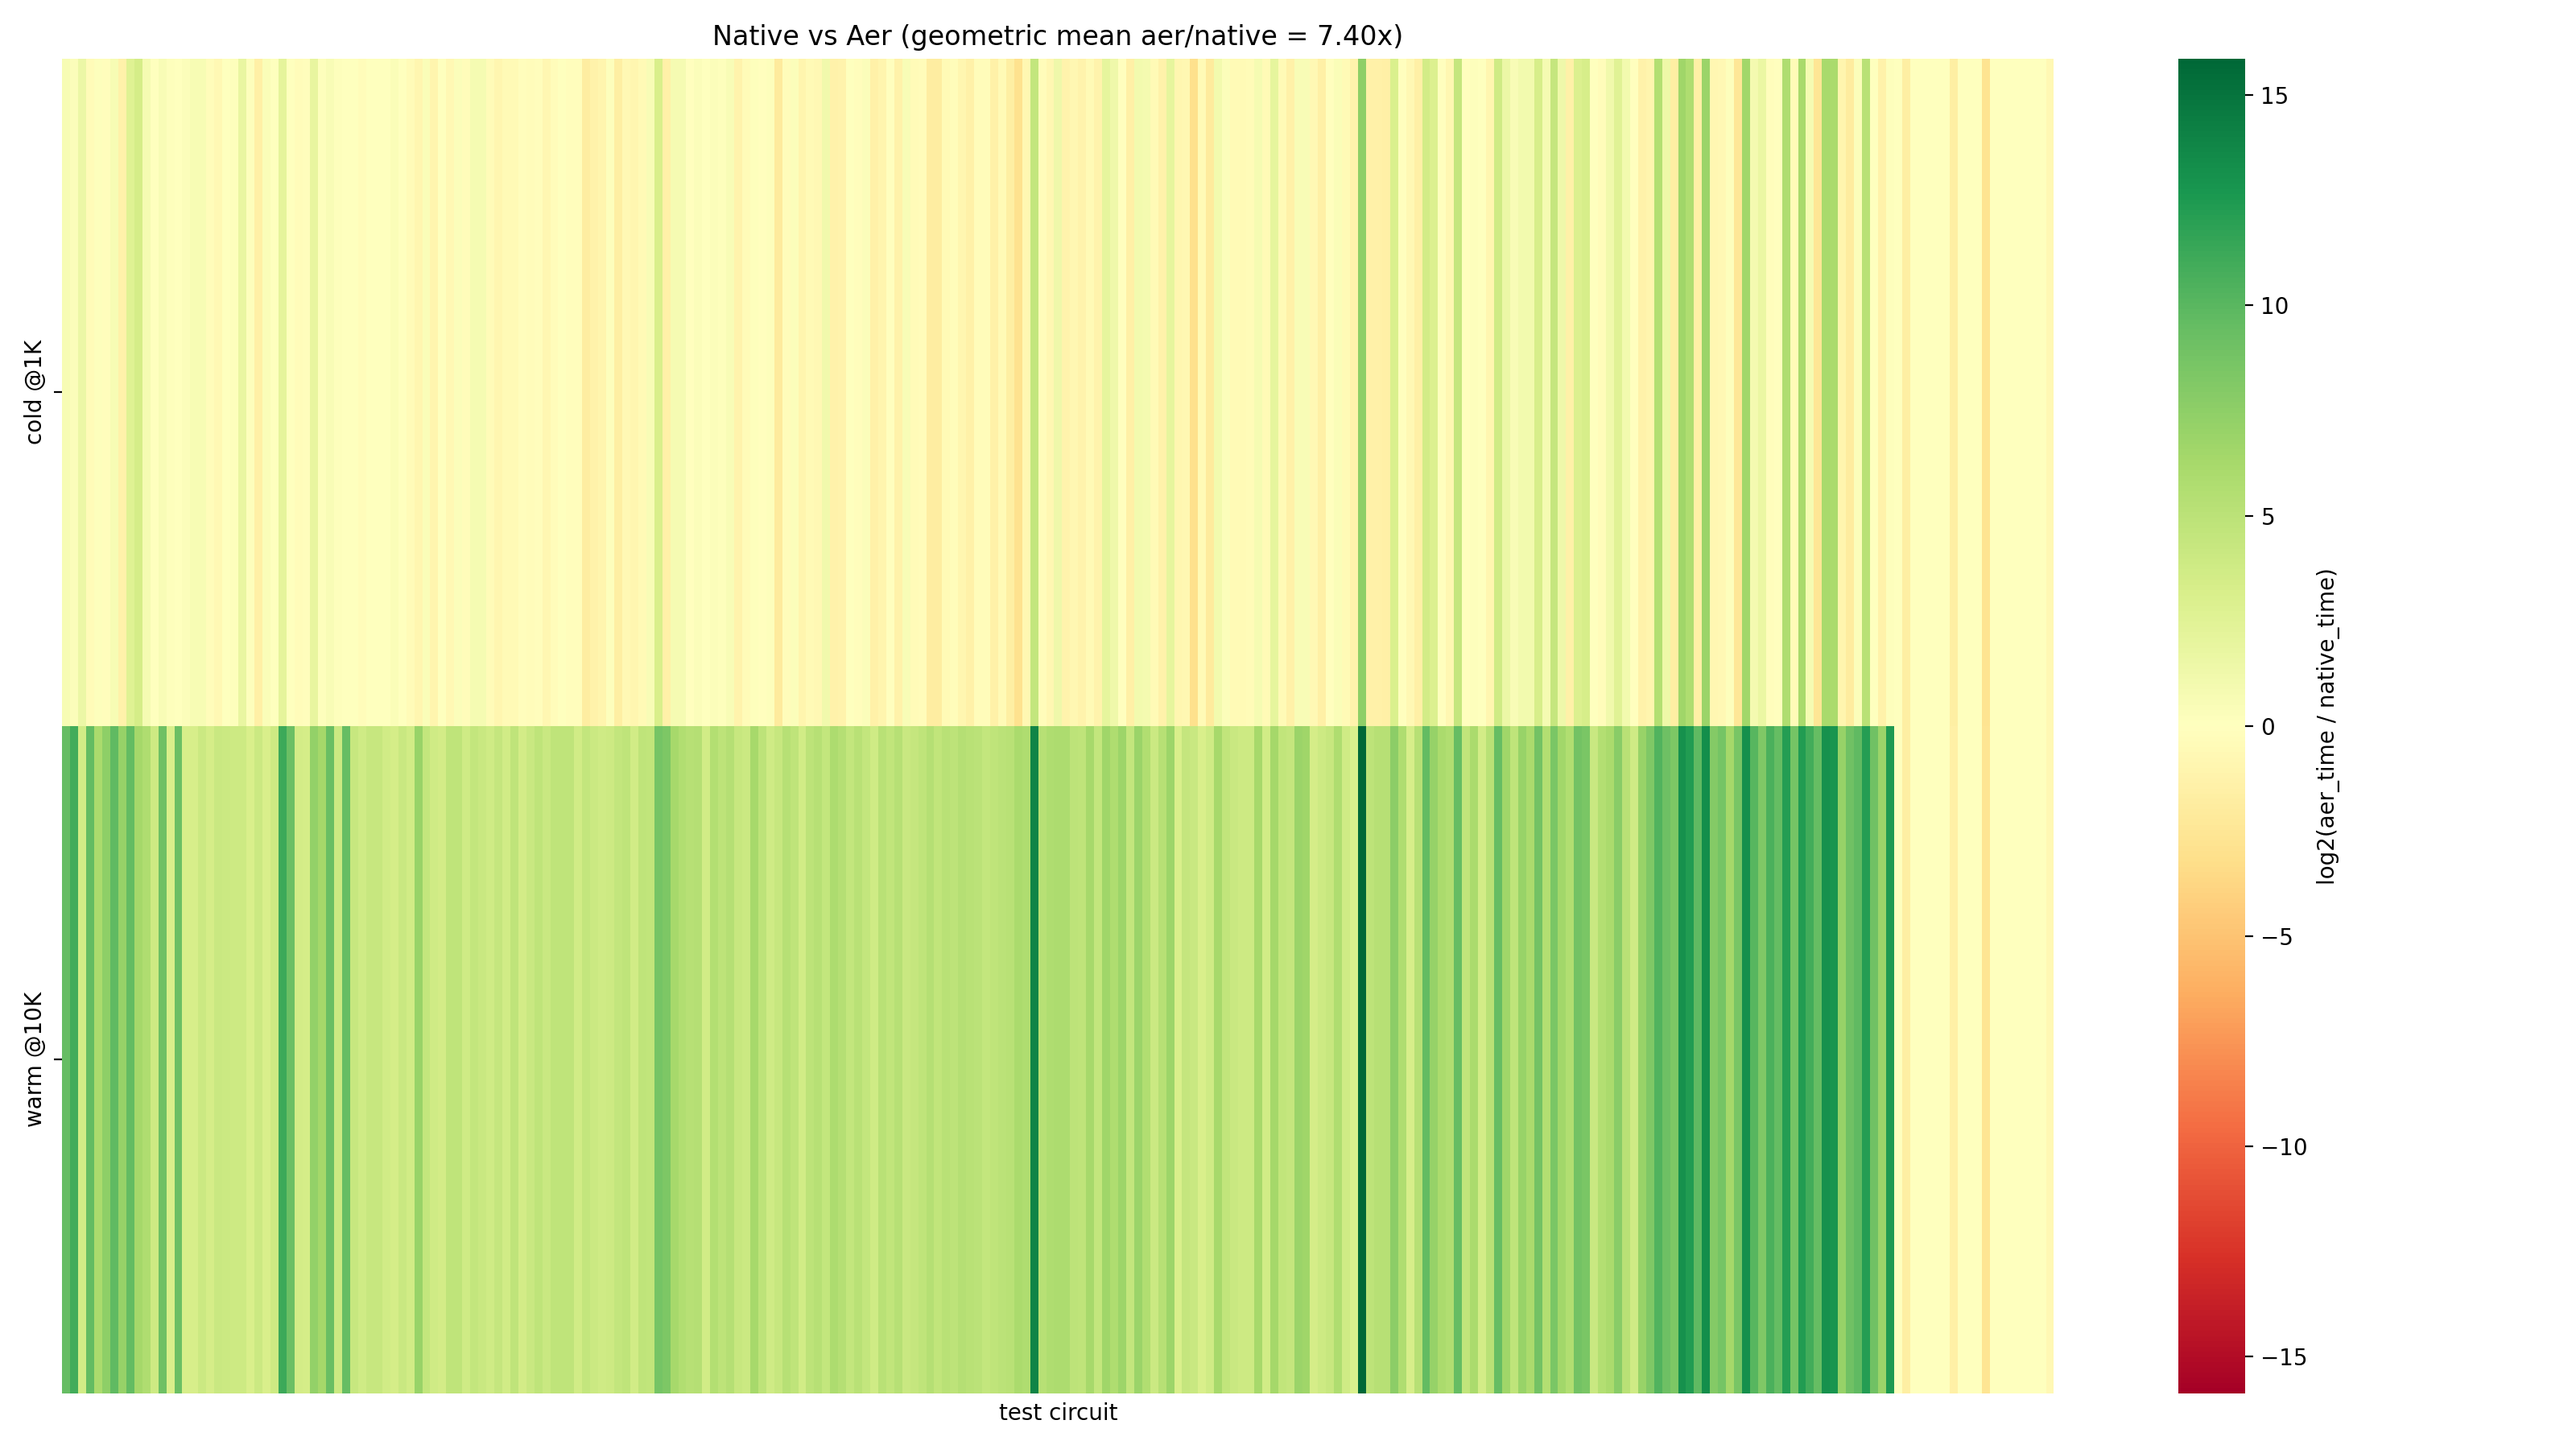
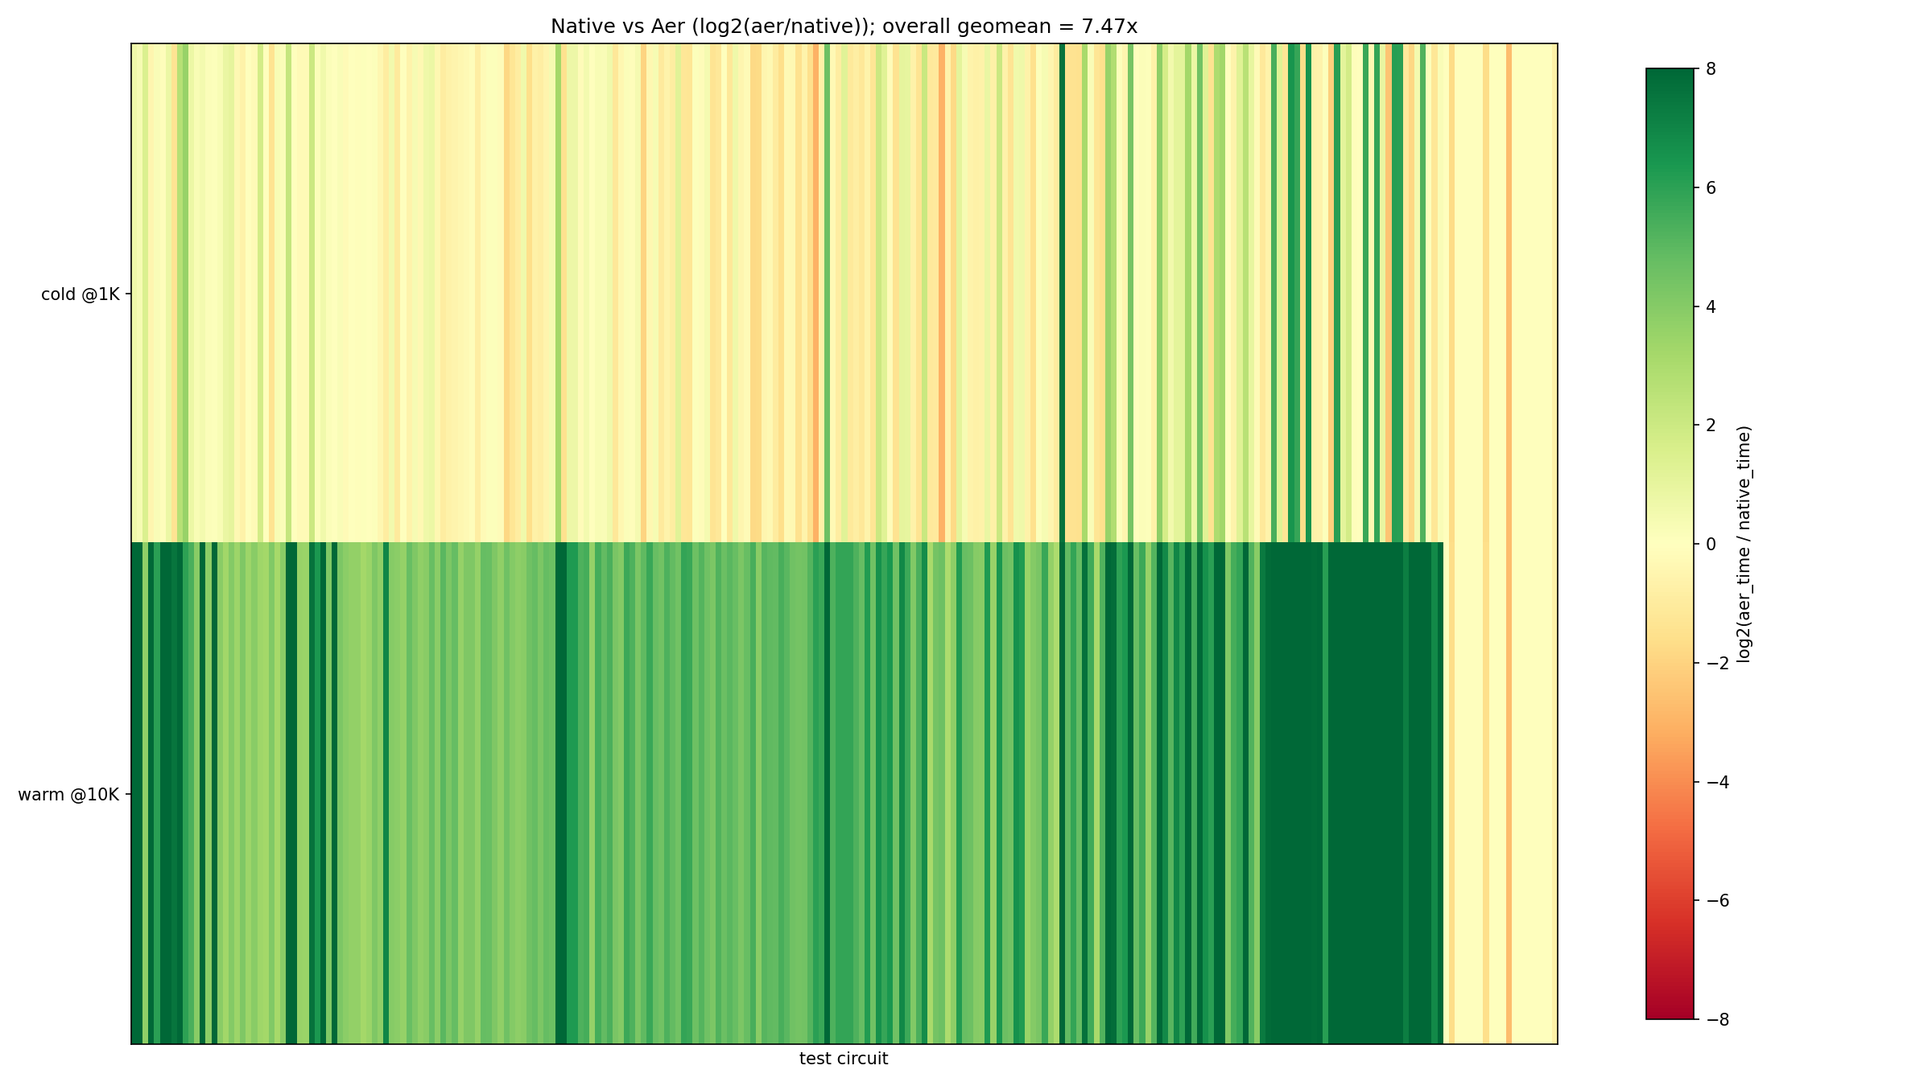
Record cd36f38 benchmark results and refresh Aer heatmap

diff --git a/docs/experiment-log.md b/docs/experiment-log.md
@@ -58,3 +58,4 @@ Metric column: core-6 @1000 total for idx 0-24; full-suite @1000 total (complete
 | 39 | `74183cf` | Binary string lookup table for ≤16-bit register codes. Pre-compute `list[str]` mapping code → binary string for n_bits ≤ 16 (max 65K entries, ~1MB, built lazily). Direct list index lookup is 2x faster than numpy bit extraction + tobytes + decode for converting register codes to dict keys. `graph_state_16` 1.4x, `grover_12` 1.3x faster. Aer geomean: 55.7x native faster (was 53.3x). 775/775 cells native wins. | 0.039s (156 cases) | Worked (1.10x) |
 | 40 | `751b889` | Adaptive bincount vs unique based on sample density. Use `torch.bincount` (O(2^n)) only when histogram is dense relative to sample count (`dim ≤ 2 * shots`). Otherwise use `torch.unique` (O(K log K)). At 16q/@1: bincount allocates 65K histogram for 1 sample (0.16ms), unique operates on 1 element (0.005ms, 32x faster). Low-shot totals improved: @1 20% faster, @10 18% faster. Aer geomean: 58.5x native faster (was 55.7x). 775/775 cells native wins. | 0.038s (156 cases) | Worked (1.05x) |
 | 41 | `5f6ec69` | Made compile-time heavy fusion passes (diagonal/permutation/1q) amortization-aware. Keep inverse-pair cancellation, skip expensive numpy fusion by default when output-distribution caching makes extra compile work non-amortized; add env overrides (`QUANTUM_FORCE_HEAVY_FUSION`, `QUANTUM_DISABLE_HEAVY_FUSION`). On the prior 216 complete-case overlap: cold 68.73s→9.28s (7.40x), warm 0.175s→0.147s (1.19x). Coverage increased from 216 to 229 complete cases on the expanded 249-case run. | 86.14s / 0.19s (229 cases) | Worked (coverage +13; common-set 7.40x cold) |
+| 42 | `cd36f38` | Added a cost-aware compile-time 1q fusion pass for large static circuits (`n_qubits >= 20`) before heavy diagonal/permutation fusion. The pass fuses only when predicted gate-runtime cost decreases, preserves diagonal/permutation structure when possible, and re-runs inverse cancellation. This keeps small/dynamic workloads on the safer path while cutting dispatch-heavy 24q cold hotspots (`quantum_volume_24` 23.28s→21.92s, `heisenberg_trotter_24` 9.24s→7.26s). Censored Aer geomean improved 7.40x→7.47x with unchanged coverage (229/249 complete). | 81.17s / 0.19s (229 cases) | Worked (1.06x cold, 1.02x warm) |

diff --git a/docs/progress-data.md b/docs/progress-data.md
@@ -37,6 +37,7 @@ Benchmark schedule: cold @1K (cache cleared) + warm @10K per circuit. Two calls 
 |---:|---|---|---|---:|---:|---:|
 | 12 | `2026-02-12T154156.jsonl` | `4ed771f` | `4ed771f\n02-12T1541` | 68.7304 | 0.1753 | 216 |
 | 13 | `2026-02-12T185245.jsonl` | `5f6ec69` | `5f6ec69\n02-12T1852` | 86.1442 | 0.1929 | 229 |
+| 14 | `2026-02-12T192423.jsonl` | `cd36f38` | `cd36f38\n02-12T1924` | 81.1741 | 0.1898 | 229 |
 
 ## SOTA Reference — Qiskit Aer (Full Suite)
 
